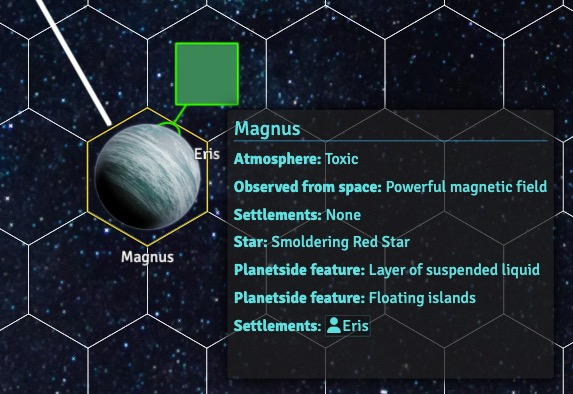
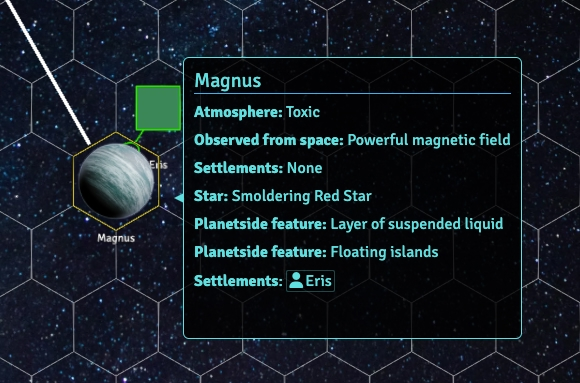
update docs

diff --git a/src/scripts/settings.js b/src/scripts/settings.js
@@ -38,7 +38,7 @@ export default function registerSettings() {
   game.settings.register(CONSTANTS.MODULE_ID, 'tooltipPlacement', {
     name: `${CONSTANTS.MODULE_ID}.Settings.TooltipPlacement.Name`,
     hint: `${CONSTANTS.MODULE_ID}.Settings.TooltipPlacement.Hint`,
-    scope: 'world',
+    scope: 'client',
     config: true,
     type: String,
     default: `${CONSTANTS.MODULE_ID}.Settings.TooltipPlacement.Choices.east`,
@@ -130,7 +130,7 @@ export default function registerSettings() {
   game.settings.register(CONSTANTS.MODULE_ID, 'useMousePositionForCoordinates', {
     name: `${CONSTANTS.MODULE_ID}.Settings.UseMousePositionForCoordinates.Name`,
     hint: `${CONSTANTS.MODULE_ID}.Settings.UseMousePositionForCoordinates.Hint`,
-    scope: 'world',
+    scope: 'client',
     config: true,
     default: true,
     type: Boolean,

diff --git a/README.md b/README.md
@@ -13,7 +13,7 @@ The `Token Note Hover` module displays the note of a hovered-over token.
 
 It provides some basic customization options in the settings, such as a light theme and a dark theme.
 
-All settings, including `enable module` are client-side only so each player must enable the features they need.
+All settings, except for `token ownership required` are client-side only so each player must enable the features they need.
 
 ## Contact
 
@@ -38,7 +38,7 @@ https://github.com/jendave/token-note-hover/releases/latest/download/module.json
 
 Module by David Hudson and licensed for use under the [Gnu GPL license v3](https://opensource.org/license/gpl-3-0).
 
-This project is based on [Map Note Hover Display](https://gitlab.com/friendlylambda/map-note-hover-display) by [Friendly Lambda](https://gitlab.com/friendlylambda) and [Pin Cushion](https://github.com/p4535992/foundryvtt-pin-cushion) by [4535992](https://github.com/p4535992).
+This project is based on [Pin Cushion](https://github.com/p4535992/foundryvtt-pin-cushion) by [4535992](https://github.com/p4535992).
 
 ## FoundryVTT Modules and Other Resources
 

diff --git a/CHANGELOG.md b/CHANGELOG.md
@@ -2,7 +2,13 @@
 
 ## [2.0.0](https://github.com/jendave/token-note-hover/commits/main) (2024-xx-xx)
 
-* Re-write using [Pin Cushion Module](https://github.com/p4535992/foundryvtt-pin-cushion) as a foundation. As a result, the LICENSE has been changed to the GPLv3.
+* New Features and Changes
+  * Complete re-write using [Pin Cushion Module](https://github.com/p4535992/foundryvtt-pin-cushion) as a foundation. As a result, the LICENSE has been changed to the GPLv3.
+  * Interact with tooltip - Links, scrolling
+  * Can adjust placement of tooltips relative to token
+  * Tooltip themes
+  * Can hide images for tooltip display
+  * Can require ownership level on notes to display
 
 ## [1.0.3](https://github.com/jendave/token-note-hover/commits/main) (2024-03-24)
 
